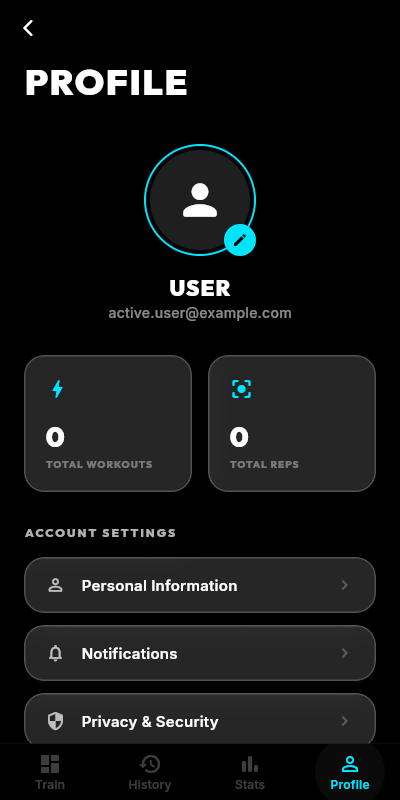
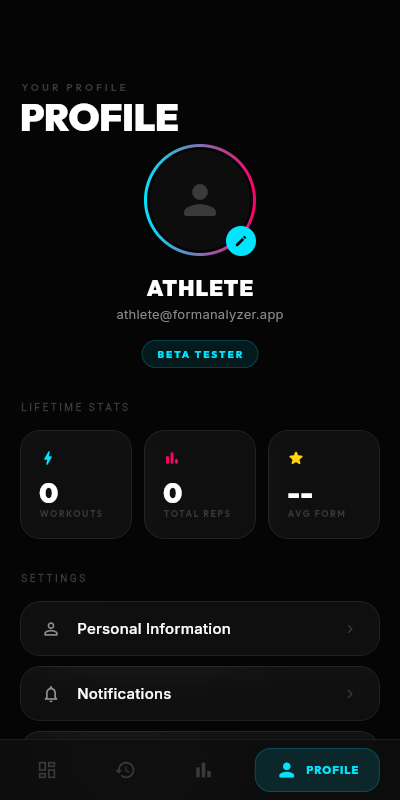
Add haptics, refresh, and web UI effects
Enable tactile feedback and interactive UI improvements across the app and web build. Changes include:

- exercise_screen: import HapticFeedback and trigger heavyImpact when rep count increases.
- glass_container: import HapticFeedback and invoke lightImpact on tap wrapping.
- profile_screen: import HapticFeedback, add _isSyncing state, implement RefreshIndicator with _handleRefresh (simulated secure sync), show a loading spinner and "SYNCING..." state in the profile badge.
- web/index.html: add custom cursor elements and styles, introduce .tilt-card and .magnetic-btn classes, update several elements to use these classes, and add JS handlers for 3D tilt, magnetic button movement, and cursor animation.
- .gitignore: ignore .vercel
- Updated image assets (dashboard/profile/stats/mockup/scan).

These changes improve UX on mobile with haptics and pull-to-refresh, and add richer interactions on the marketing web page.

diff --git a/web/index.html b/web/index.html
@@ -44,6 +44,47 @@
             color: #ffffff;
             -webkit-font-smoothing: antialiased;
             overflow-x: hidden;
+            cursor: none;
+        }
+
+        /* Custom Cursor */
+        .cursor-dot,
+        .cursor-outline {
+            position: fixed;
+            top: 0;
+            left: 0;
+            transform: translate(-50%, -50%);
+            border-radius: 50%;
+            z-index: 9999;
+            pointer-events: none;
+        }
+
+        .cursor-dot {
+            width: 8px;
+            height: 8px;
+            background-color: #06b6d4;
+        }
+
+        .cursor-outline {
+            width: 40px;
+            height: 40px;
+            border: 1px solid rgba(6, 182, 212, 0.5);
+            transition: width 0.2s, height 0.2s;
+        }
+
+        body:hover .cursor-dot {
+            opacity: 1;
+        }
+
+        body:hover .cursor-outline {
+            opacity: 1;
+        }
+
+        a:hover ~ .cursor-outline,
+        button:hover ~ .cursor-outline {
+            width: 60px;
+            height: 60px;
+            background-color: rgba(6, 182, 212, 0.1);
         }
 
         /* Ambient Grain Texture */
@@ -77,6 +118,7 @@
         .hero-title {
             background: linear-gradient(180deg, #fff 30%, rgba(255,255,255,0.4) 100%);
             -webkit-background-clip: text;
+            background-clip: text;
             -webkit-text-fill-color: transparent;
         }
 
@@ -98,6 +140,17 @@
         .reveal.active {
             opacity: 1;
             transform: translateY(0);
+        }
+
+        .tilt-card {
+            transition: transform 0.1s ease;
+            transform-style: preserve-3d;
+            will-change: transform;
+        }
+
+        .magnetic-btn {
+            transition: transform 0.1s cubic-bezier(0.2, 0.8, 0.2, 1), background-color 0.2s, box-shadow 0.2s;
+            will-change: transform;
         }
 
         .scanning-line {
@@ -129,6 +182,9 @@
 </head>
 <body class="font-sans selection:bg-cyan-500/30">
 
+    <div class="cursor-dot"></div>
+    <div class="cursor-outline"></div>
+
     <!-- Sticky Navigation -->
     <nav class="fixed top-0 left-0 w-full z-50 p-6 md:p-8">
         <div class="max-w-7xl mx-auto flex items-center justify-between glass h-16 px-8 rounded-full border border-white/10">
@@ -138,14 +194,14 @@
             </div>
             
             <div class="hidden lg:flex gap-10 text-[11px] font-bold uppercase tracking-[2px] text-gray-400">
-                <a href="#engine" class="hover:text-white transition-all">The Engine</a>
-                <a href="#demo" class="hover:text-white transition-all">Live Scan</a>
-                <a href="#impact" class="hover:text-white transition-all">Impact</a>
-                <a href="#validation" class="hover:text-white transition-all">Validation</a>
-                <a href="#research" class="hover:text-white transition-all">Research</a>
+                <a href="#engine" class="hover:text-white transition-all magnetic-btn">The Engine</a>
+                <a href="#demo" class="hover:text-white transition-all magnetic-btn">Live Scan</a>
+                <a href="#impact" class="hover:text-white transition-all magnetic-btn">Impact</a>
+                <a href="#validation" class="hover:text-white transition-all magnetic-btn">Validation</a>
+                <a href="#research" class="hover:text-white transition-all magnetic-btn">Research</a>
             </div>
 
-            <button onclick="openModal()" class="px-6 py-2.5 rounded-full bg-white text-black text-[11px] font-extrabold uppercase tracking-widest hover:scale-105 active:scale-95 transition-all shadow-xl">
+            <button onclick="openModal()" class="magnetic-btn px-6 py-2.5 rounded-full bg-white text-black text-[11px] font-extrabold uppercase tracking-widest hover:scale-105 active:scale-95 transition-all shadow-xl">
                 Get Access
             </button>
         </div>
@@ -176,17 +232,17 @@
             </p>
             
             <div class="flex flex-col sm:flex-row items-center justify-center gap-6 pt-10">
-                <button onclick="openModal()" class="w-full sm:w-auto px-12 py-5 rounded-full bg-cyan-500 text-white font-black text-xs uppercase tracking-[3px] hover:bg-cyan-400 hover:shadow-2xl hover:shadow-cyan-500/30 transition-all active:scale-95">
+                <button onclick="openModal()" class="magnetic-btn w-full sm:w-auto px-12 py-5 rounded-full bg-cyan-500 text-white font-black text-xs uppercase tracking-[3px] hover:bg-cyan-400 hover:shadow-2xl hover:shadow-cyan-500/30 transition-all active:scale-95">
                     Start Your Beta
                 </button>
-                <a href="#demo" class="text-gray-400 text-[11px] font-bold uppercase tracking-[2px] hover:text-white transition-colors">
+                <a href="#demo" class="magnetic-btn text-gray-400 text-[11px] font-bold uppercase tracking-[2px] hover:text-white transition-colors">
                     Watch the engine &rarr;
                 </a>
             </div>
         </div>
 
-        <div class="mt-32 relative w-full max-w-6xl px-4 floating reveal pointer-events-none">
-            <div class="rounded-[3rem] overflow-hidden glass p-3 border border-white/10 shadow-2xl cyan-glow">
+        <div class="mt-32 relative w-full max-w-6xl px-4 floating reveal pointer-events-none tilt-card">
+            <div class="rounded-[3rem] overflow-hidden glass p-3 border border-white/10 shadow-2xl cyan-glow tilt-card">
                 <img src="mockup.png" alt="Form Analyzer UI" class="w-full h-auto rounded-[2.5rem] grayscale-[0.2] brightness-110">
                 
                 <!-- dynamic overlays -->
@@ -284,20 +340,20 @@
     <section id="impact" class="py-32 px-6">
         <div class="max-w-7xl mx-auto grid lg:grid-cols-3 gap-8">
             <div class="lg:col-span-2 grid sm:grid-cols-2 gap-8">
-                <div class="p-10 rounded-[3rem] glass-cyan reveal group cursor-default">
+                <div class="p-10 rounded-[3rem] glass-cyan reveal group cursor-default tilt-card">
                     <h3 class="text-2xl font-bold mb-4 group-hover:text-cyan-400 transition-colors tracking-tight">Student-Athletes</h3>
                     <p class="text-gray-400 font-light leading-relaxed">
                         Democratic access to coaching. For the high-schooler in an under-resourced weight room, we provide the Olympian's advantage.
                     </p>
                 </div>
-                <div class="p-10 rounded-[3rem] glass reveal delay-100 group cursor-default">
+                <div class="p-10 rounded-[3rem] glass reveal delay-100 group cursor-default tilt-card">
                     <h3 class="text-2xl font-bold mb-4 group-hover:text-emerald-400 transition-colors tracking-tight">Injury Prevention</h3>
                     <p class="text-gray-400 font-light leading-relaxed">
                         Identify chronic stress patterns in your gait before they become sidelined seasons. Move longer, move better.
                     </p>
                 </div>
             </div>
-            <div class="p-10 rounded-[3rem] bg-cyan-600/5 border border-cyan-500/20 reveal flex flex-col justify-between">
+            <div class="p-10 rounded-[3rem] bg-cyan-600/5 border border-cyan-500/20 reveal flex flex-col justify-between tilt-card">
                 <div>
                     <div class="text-[10px] font-black uppercase text-cyan-500 tracking-[3px] mb-4">Beta Roadmap</div>
                     <h3 class="text-4xl font-extrabold tracking-tighter mb-6">Phase 1 <br>Live Now.</h3>
@@ -535,6 +591,60 @@
 
         setInterval(updateBetaCounter, 15000); // Check/Update every 15s
         updateBetaCounter(); // Initial call
+        
+        // 3D Tilt Effect
+        document.querySelectorAll('.tilt-card').forEach(card => {
+            card.addEventListener('mousemove', e => {
+                const rect = card.getBoundingClientRect();
+                const x = e.clientX - rect.left;
+                const y = e.clientY - rect.top;
+                const centerX = rect.width / 2;
+                const centerY = rect.height / 2;
+                const rotateX = ((y - centerY) / centerY) * -8;
+                const rotateY = ((x - centerX) / centerX) * 8;
+                
+                card.style.transform = `perspective(1000px) rotateX(${rotateX}deg) rotateY(${rotateY}deg) scale3d(1.02, 1.02, 1.02)`;
+            });
+            card.addEventListener('mouseleave', () => {
+                card.style.transform = `perspective(1000px) rotateX(0deg) rotateY(0deg) scale3d(1, 1, 1)`;
+                setTimeout(() => {
+                    card.style.transition = 'transform 0.1s ease';
+                }, 300);
+            });
+            card.addEventListener('mouseenter', () => {
+                card.style.transition = 'none';
+            });
+        });
+
+        // Magnetic Buttons
+        document.querySelectorAll('.magnetic-btn').forEach(btn => {
+            btn.addEventListener('mousemove', (e) => {
+                const rect = btn.getBoundingClientRect();
+                const x = e.clientX - rect.left - rect.width / 2;
+                const y = e.clientY - rect.top - rect.height / 2;
+                btn.style.transform = `translate(${x * 0.3}px, ${y * 0.3}px)`;
+            });
+            btn.addEventListener('mouseleave', () => {
+                btn.style.transform = `translate(0px, 0px)`;
+            });
+        });
+
+        // Custom Cursor Logic
+        const cursorDot = document.querySelector('.cursor-dot');
+        const cursorOutline = document.querySelector('.cursor-outline');
+
+        window.addEventListener('mousemove', (e) => {
+            const posX = e.clientX;
+            const posY = e.clientY;
+
+            cursorDot.style.left = `${posX}px`;
+            cursorDot.style.top = `${posY}px`;
+
+            cursorOutline.animate({
+                left: `${posX}px`,
+                top: `${posY}px`
+            }, { duration: 500, fill: 'forwards' });
+        });
     </script>
 </body>
 </html>

diff --git a/app/lib/ui/screens/profile_screen.dart b/app/lib/ui/screens/profile_screen.dart
@@ -1,4 +1,5 @@
 import 'package:flutter/material.dart';
+import 'package:flutter/services.dart';
 import 'package:google_fonts/google_fonts.dart';
 import '../../core/app_colors.dart';
 import '../../models/exercise_model.dart';
@@ -16,6 +17,7 @@ class _ProfileScreenState extends State<ProfileScreen> {
   final StorageService _storageService = StorageService();
   List<WorkoutSession>? _sessions;
   bool _isLoading = true;
+  bool _isSyncing = false;
 
   @override
   void initState() {
@@ -36,6 +38,16 @@ class _ProfileScreenState extends State<ProfileScreen> {
     }
   }
 
+  Future<void> _handleRefresh() async {
+    HapticFeedback.mediumImpact();
+    setState(() => _isSyncing = true);
+    // Simulate secure network sync
+    await Future.delayed(const Duration(milliseconds: 1800));
+    await _loadData();
+    setState(() => _isSyncing = false);
+    HapticFeedback.lightImpact();
+  }
+
   int get _totalReps =>
       _sessions?.fold<int>(0, (s, e) => s + e.totalReps) ?? 0;
   int get _totalSessions => _sessions?.length ?? 0;
@@ -52,8 +64,13 @@ class _ProfileScreenState extends State<ProfileScreen> {
   Widget build(BuildContext context) {
     return Scaffold(
       backgroundColor: AppColors.background,
-      body: CustomScrollView(
-        slivers: [
+      body: RefreshIndicator(
+        onRefresh: _handleRefresh,
+        backgroundColor: AppColors.surface,
+        color: AppColors.accentCyan,
+        child: CustomScrollView(
+          physics: const AlwaysScrollableScrollPhysics(),
+          slivers: [
           SliverAppBar(
             expandedHeight: 140,
             pinned: true,
@@ -118,6 +135,7 @@ class _ProfileScreenState extends State<ProfileScreen> {
                   ),
           ),
         ],
+      ),
       ),
     );
   }
@@ -198,14 +216,39 @@ class _ProfileScreenState extends State<ProfileScreen> {
               color: AppColors.accentCyan.withValues(alpha: 0.2),
             ),
           ),
-          child: Text(
-            'BETA TESTER',
-            style: GoogleFonts.outfit(
-              color: AppColors.accentCyan,
-              fontSize: 10,
-              fontWeight: FontWeight.w800,
-              letterSpacing: 2,
-            ),
+          child: Row(
+            mainAxisSize: MainAxisSize.min,
+            children: [
+              if (_isSyncing) ...[
+                const SizedBox(
+                  width: 10,
+                  height: 10,
+                  child: CircularProgressIndicator(
+                    strokeWidth: 2,
+                    color: AppColors.accentCyan,
+                  ),
+                ),
+                const SizedBox(width: 8),
+                Text(
+                  'SYNCING...',
+                  style: GoogleFonts.outfit(
+                    color: AppColors.accentCyan,
+                    fontSize: 10,
+                    fontWeight: FontWeight.w800,
+                    letterSpacing: 2,
+                  ),
+                ),
+              ] else
+                Text(
+                  'BETA TESTER',
+                  style: GoogleFonts.outfit(
+                    color: AppColors.accentCyan,
+                    fontSize: 10,
+                    fontWeight: FontWeight.w800,
+                    letterSpacing: 2,
+                  ),
+                ),
+            ],
           ),
         ),
       ],

diff --git a/app/lib/ui/screens/exercise_screen.dart b/app/lib/ui/screens/exercise_screen.dart
@@ -1,5 +1,6 @@
 import 'dart:async';
 import 'package:flutter/material.dart';
+import 'package:flutter/services.dart';
 import 'package:camera/camera.dart';
 import 'package:google_fonts/google_fonts.dart';
 import 'package:google_mlkit_pose_detection/google_mlkit_pose_detection.dart';
@@ -59,6 +60,9 @@ class _ExerciseScreenState extends State<ExerciseScreen>
     _tts.init();
     widget.exercise.analyzer.onRep = (count) {
       if (mounted) {
+        if (count > _currentRepCount) {
+          HapticFeedback.heavyImpact();
+        }
         setState(() => _currentRepCount = count);
         _tts.speak("$count");
       }

diff --git a/app/lib/ui/widgets/glass_container.dart b/app/lib/ui/widgets/glass_container.dart
@@ -1,5 +1,6 @@
 import 'dart:ui';
 import 'package:flutter/material.dart';
+import 'package:flutter/services.dart';
 import '../../core/app_colors.dart';
 
 /// A premium glassmorphic card used throughout the app.
@@ -52,7 +53,13 @@ class GlassContainer extends StatelessWidget {
     );
 
     if (onTap != null) {
-      return GestureDetector(onTap: onTap, child: content);
+      return GestureDetector(
+        onTap: () {
+          HapticFeedback.lightImpact();
+          onTap!();
+        },
+        child: content,
+      );
     }
     return content;
   }
